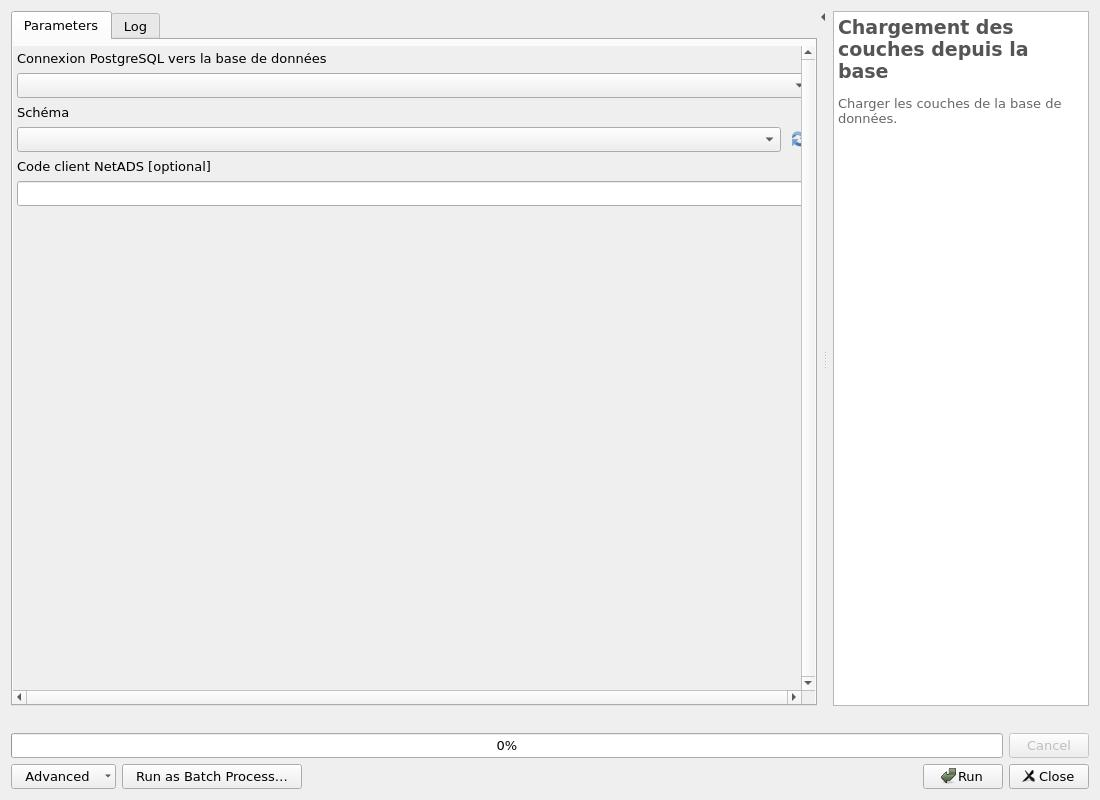
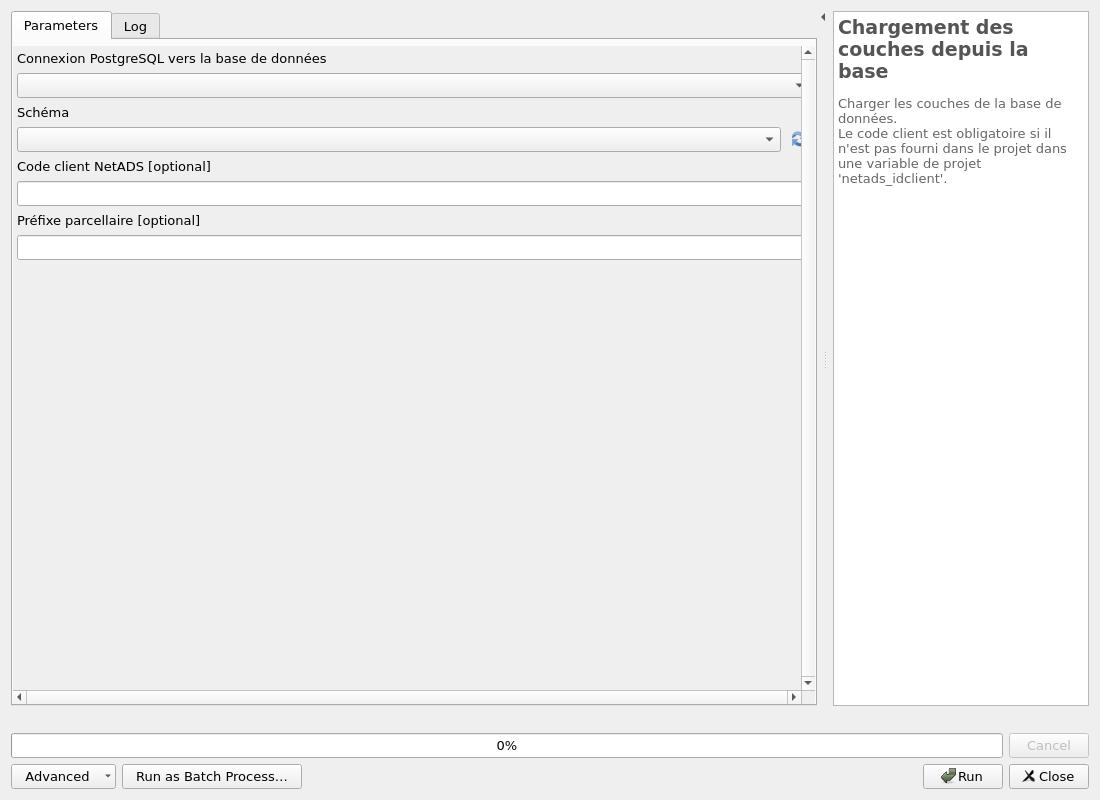
Docs - Update Processing algorithms

Changed region(s): [[0.7727, 0.1562, 0.9582, 0.25], [0.0309, 0.25, 0.1855, 0.2812]]

diff --git a/docs/processing/README.md b/docs/processing/README.md
@@ -84,7 +84,66 @@ IMPORT_PROJECT_LAYER|Importer la couche dans le projet|Boolean||✓|||
 | ID | Description | Type | Info |
 |:-:|:-:|:-:|:-:|
 OUTPUT|Couches de sortie|MultipleLayers||
-OUTPUT MSG|Message de sortie|String||
+
+
+***
+
+
+### Import des impacts
+
+Ajout des données pour les tables des impacts<br>Le champ pour le 'type' doit contenir exclusivement les valeurs suivantes : ZONAGE,SERVITUDE,PRESCRIPTION,INFORMATION
+
+![algo_id](./netads-data_impacts.jpg)
+
+#### Parameters
+
+| ID | Description | Type | Info | Required | Advanced | Option |
+|:-:|:-:|:-:|:-:|:-:|:-:|:-:|
+ENTREE|Couche en entrée pour les impacts|FeatureSource|Couche vecteur qu'il faut importer dans la base de données|✓|||
+TYPE_IMPORT|Type d'import|Enum|Type d'import concernant la couche|✓||Values: ZONAGE, SERVITUDE, PRESCRIPTION, INFORMATION <br>|
+CHAMP_CODE|Champ pour le code|Field|Zonage, Impacts, Servitudes, Droit de Préemption, Lotissement, ou tout autre valeur libre|✓|||
+CHAMP_SOUS_CODE|Champ pour le sous-code|Field|Valeur libre||||
+CHAMP_ETIQUETTE|Champ des étiquettes|Field|Champ des étiquettes pour l'impact||||
+CHAMP_LIBELLE|Champ des libellés|Field|Champ des libellés pour l'impact|✓|||
+CHAMP_DESCRIPTION|Champ des descriptions|Field|Champ des libellés pour l'impact||||
+CHAMP_INSEE|Champ du code INSEE|Field|Champ du code INSEE pour l'impact. Si le champ n'est pas fourni, le code INSEE proviendra de l'intersection avec la commune.||||
+CONNECTION_NAME|Connexion PostgreSQL vers la base de données|ProviderConnection|Base de données de destination|✓|||
+SCHEMA_NETADS|Schéma NetADS|DatabaseSchema|Nom du schéma des données NetADS|✓||Default: netads <br> |
+
+
+#### Outputs
+
+| ID | Description | Type | Info |
+|:-:|:-:|:-:|:-:|
+COUNT_FEATURES|Nombre d'entités importés|Number||
+COUNT_NEW_IMPACTS|Nombre de nouveaux impacts|Number||
+
+
+***
+
+
+### Import des parcelles
+
+Ajout des données pour la table parcelles
+
+![algo_id](./netads-data_parcelle.jpg)
+
+#### Parameters
+
+| ID | Description | Type | Info | Required | Advanced | Option |
+|:-:|:-:|:-:|:-:|:-:|:-:|:-:|
+CONNECTION_NAME|Connexion PostgreSQL vers la base de données|ProviderConnection|Base de données de destination|✓|||
+SCHEMA_CADASTRE|Schéma Cadastre|DatabaseSchema|Nom du schéma des données cadastre|✓||Default: cadastre <br> |
+SCHEMA_NETADS|Schéma NetADS|DatabaseSchema|Nom du schéma des données NetADS|✓||Default: netads <br> |
+TRUNCATE_PARCELLES|Mise à jour de la table parcelles|Boolean||✓|||
+IMPORT_PROJECT_LAYER|Importer la couche dans le projet|Boolean||✓|||
+
+
+#### Outputs
+
+| ID | Description | Type | Info |
+|:-:|:-:|:-:|:-:|
+OUTPUT|Couches de sortie|MultipleLayers||
 
 
 ***
@@ -92,7 +151,7 @@ OUTPUT MSG|Message de sortie|String||
 
 ### Chargement des couches depuis la base
 
-Charger les couches de la base de données.
+Charger les couches de la base de données.<br>Le code client est obligatoire si il n'est pas fourni dans le projet dans une variable de projet 'netads_idclient'.
 
 ![algo_id](./netads-load_layers.jpg)
 
@@ -103,6 +162,7 @@ Charger les couches de la base de données.
 CONNECTION_NAME|Connexion PostgreSQL vers la base de données|ProviderConnection|Base de données où sont stockés les données|✓|||
 SCHEMA|Schéma|DatabaseSchema|Nom du schéma des données netads|✓||Default: netads <br> |
 CODE_CLIENT|Code client NetADS|String|Code client NetADS attribué à la collectivité||||
+PREFIX_PARCELLE|Préfixe parcellaire|String|Code départemental (2 caractères) et code de direction (1 caractère)||||
 
 
 #### Outputs
